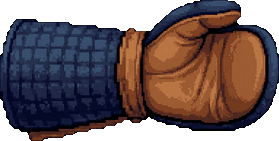
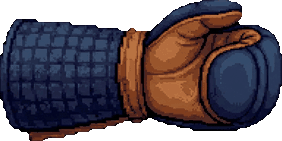
Kendo : men recule de 10 cm, kote de paume poing ferme

diff --git a/kendo/index.html b/kendo/index.html
@@ -299,7 +299,7 @@ const MENDARE_BAND_TOP = 0.56;
    le men la fait saillir derrière le dos. Le bord arrière à hauteur d'épaule
    passe de -4,3 cm à recul nul à -10,4 cm à six, contre -4 à -6 pour le reste
    du dos. Au-delà de deux, ça se lit comme une bosse. */
-const MEN_SETBACK_CENTIMETRES = 6;
+const MEN_SETBACK_CENTIMETRES = 10;
 /* Angle du bras au-delà duquel il passe devant l'épaulette. En dessous il est
    en garde, et l'épaulette lui repasse devant. */
 const ARM_OVER_MENDARE_DEGREES = 15;
